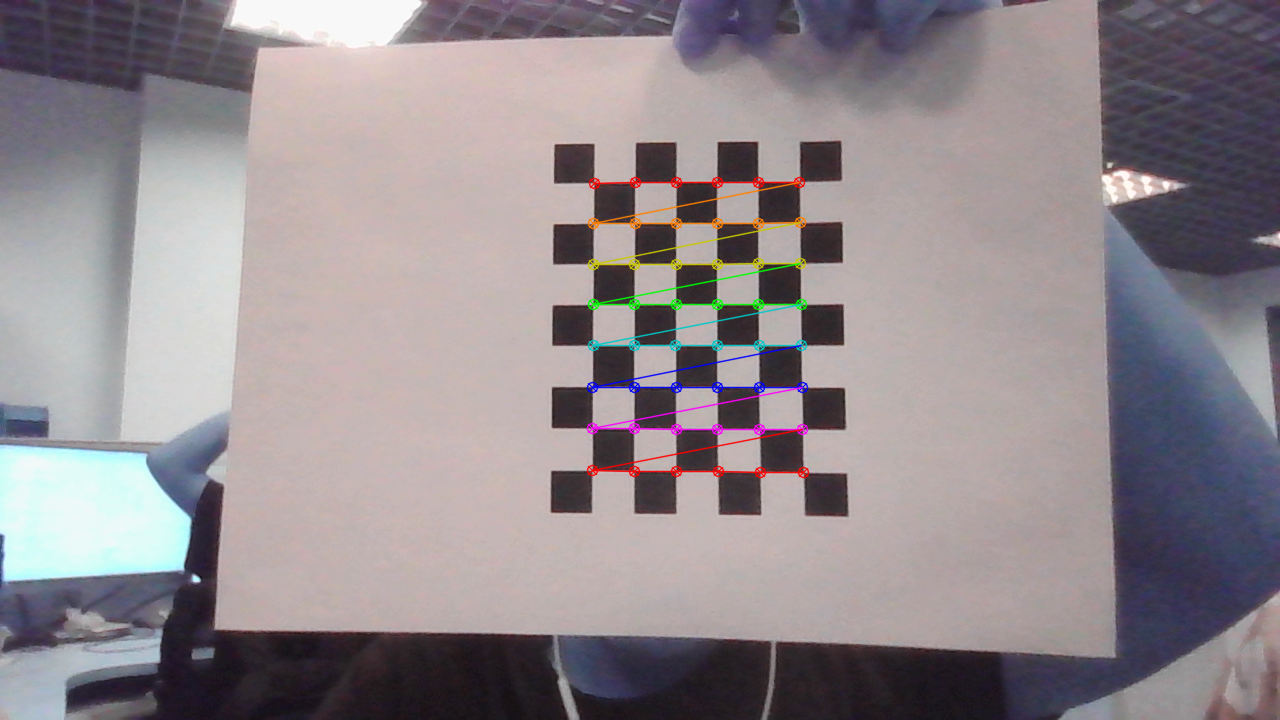
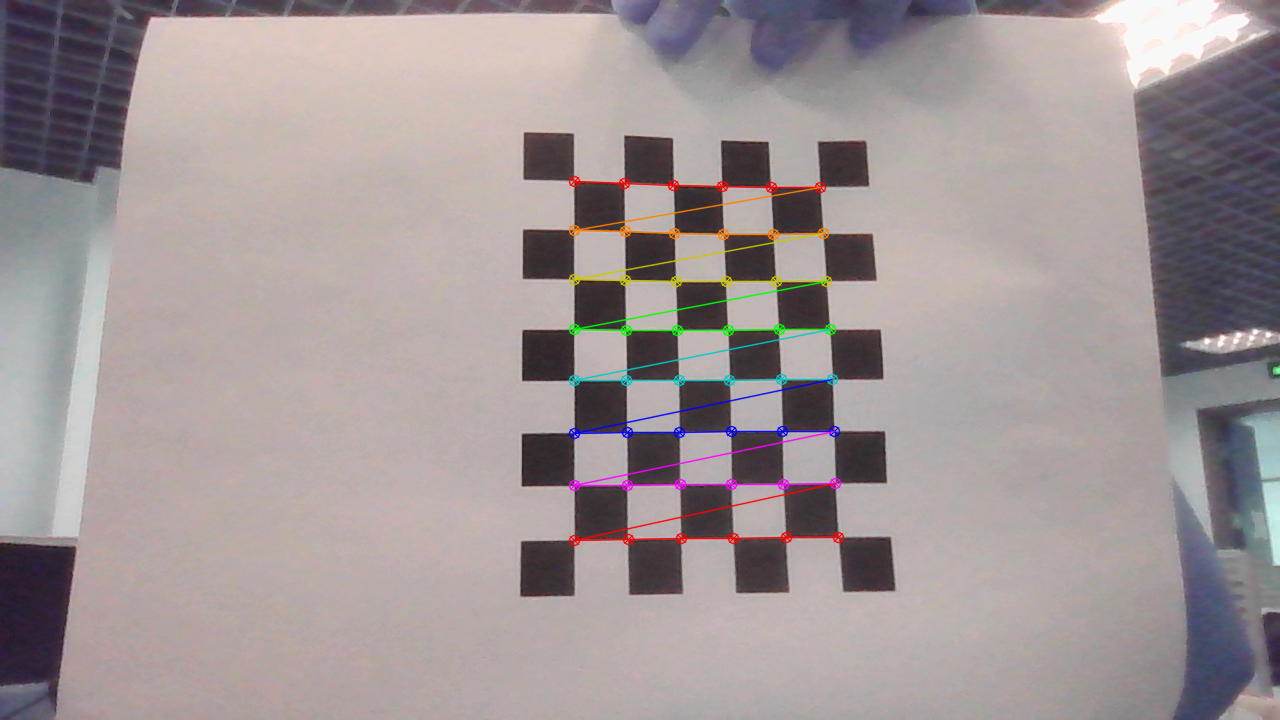
save illustration images

diff --git a/src/line_extract.cpp b/src/line_extract.cpp
@@ -38,10 +38,10 @@ void LineExtract::ImageCallback(const sensor_msgs::ImageConstPtr& msg_cam1, cons
 }
 
 cv::Mat LineExtract::FastLineDetector(cv::Mat image1, cv::Mat image2){
-    int    length_threshold    = 10;  
-    float  distance_threshold  = 1.41421356f;  
-    double canny_th1           = 50.0;  
-    double canny_th2           = 50.0;  
+    int    length_threshold    = 50;  
+    float  distance_threshold  = 2.0f;  
+    double canny_th1           = 30.0;  
+    double canny_th2           = 30.0;  
     int    canny_aperture_size = 3;  
     bool   do_merge            = false;  
     cv::Ptr<cv::ximgproc::FastLineDetector> fld = cv::ximgproc::createFastLineDetector(  
